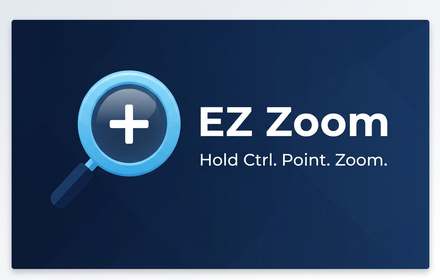
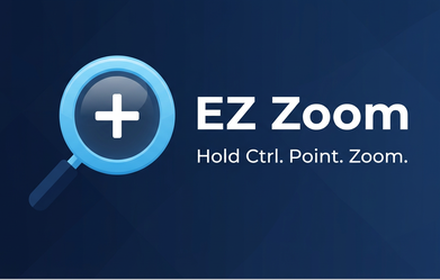
Record EZ Zoom 1.2.0 as published (#5)
Mark 1.2.0 live in CHANGELOG and store/listing.md, record the promo
video link, and replace the small promo tile with an edge-to-edge
version (the old one had a light frame).

Changed region(s): [[0.0, 0.0, 1.0, 1.0], [0.0591, 0.2, 0.4136, 0.7429], [0.4432, 0.3429, 0.9455, 0.6]]

diff --git a/store/listing.md b/store/listing.md
@@ -1,6 +1,6 @@
 # Chrome Web Store Listing — EZ Zoom
 
-Metadata and copy for **EZ Zoom – Webpage Magnifier & Mouse Loupe** (item ID `njbbgpolfnghieffmiicbfcmapdakpdl`). This file matches version **1.2.0**; the store shows 1.1.1 ("EZ Zoom – Mouse Magnifier") until 1.2.0 is uploaded and approved. Update this file whenever the dashboard listing changes so it stays the source of truth.
+Metadata and copy for **EZ Zoom – Webpage Magnifier & Mouse Loupe** (item ID `njbbgpolfnghieffmiicbfcmapdakpdl`). Published version: **1.2.0** (live 2026-10-26). Update this file whenever the dashboard listing changes so it stays the source of truth.
 
 ## Package metadata
 
@@ -149,7 +149,11 @@ Screenshots must not show private information, misleading composites, excessive 
 
 ## Promo video
 
-The store accepts a YouTube link in **Store listing → Global promo video**. Upload `release/ez-zoom-demo.mp4` (made by `npm run demo`, ~30 s, no audio) to YouTube as *Public* or *Unlisted*, then paste the link there. The same recording is in the README as `store/demo/ez-zoom-demo.gif`. Re-record after any visible behavior or popup change.
+The store accepts a YouTube link in **Store listing → Global promo video**. Upload `release/ez-zoom-demo.mp4` (made by `npm run demo`, ~30 s, no audio) to YouTube as *Public* or *Unlisted*, then paste the link there.
+
+Current video (public, uploaded 2026-10-22, on the Bright Arcadia channel): https://www.youtube.com/watch?v=DBvJx63QC9U
+
+The same recording is in the README as `store/demo/ez-zoom-demo.gif`. Re-record after any visible behavior or popup change.
 
 ## Test instructions (dashboard → Access)
 

diff --git a/CHANGELOG.md b/CHANGELOG.md
@@ -1,12 +1,13 @@
 # Changelog
 
-## 1.2.0 — unreleased (prepared 2026-10-22)
+## 1.2.0 — 2026-10-26
 
 - Renamed to **EZ Zoom – Webpage Magnifier & Mouse Loupe** and rewrote the short description and store copy so people searching for a magnifier can find the extension.
 - One-time rating card in the settings popup, shown after 15 zooms; **Rate** and **No thanks** both dismiss it for good. The count is kept in `chrome.storage.local`, is never synced and never leaves the device.
 - **Sharper zoom:** zoomed pages are re-rendered at full resolution once the zoom animation ends, and in hover mode whenever the pointer rests. Previously text and graphics stayed blurry at high zoom.
 - Privacy policy and permissions docs describe the local count.
-- Demo recording of the real extension (`npm run demo`) for the README and a store promo video.
+- Demo recording of the real extension (`npm run demo`) for the README and the store promo video.
+- Small promo tile redrawn edge to edge (the old one had a light frame).
 
 ## 1.1.1 — 2026-09-02
 
